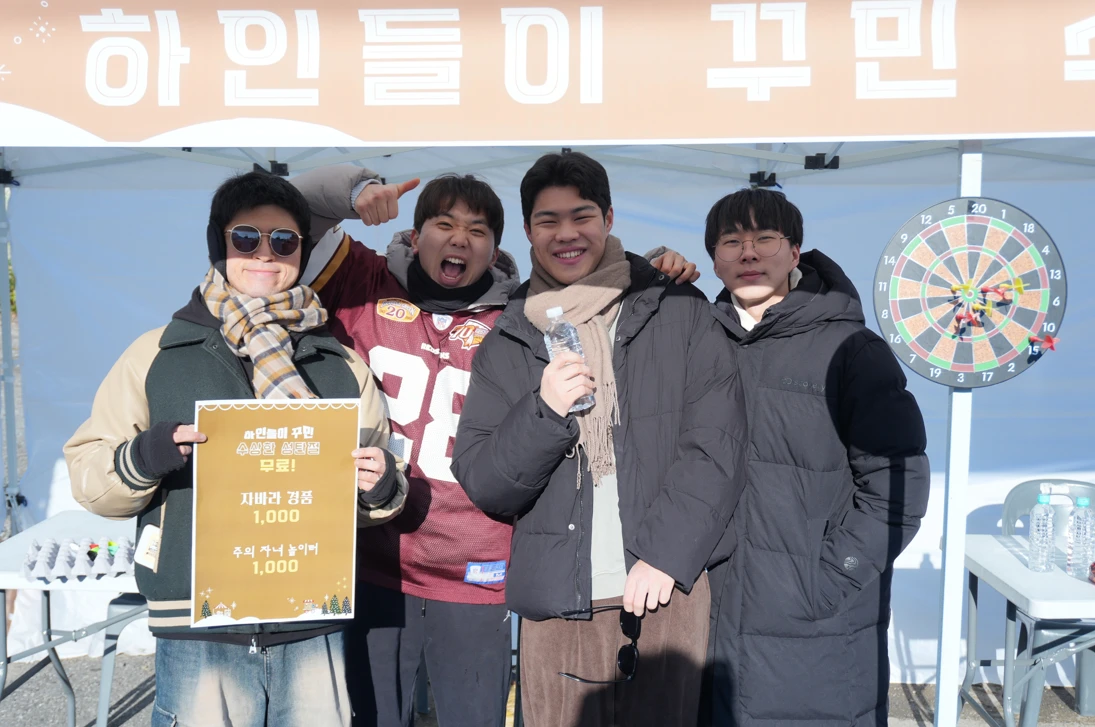
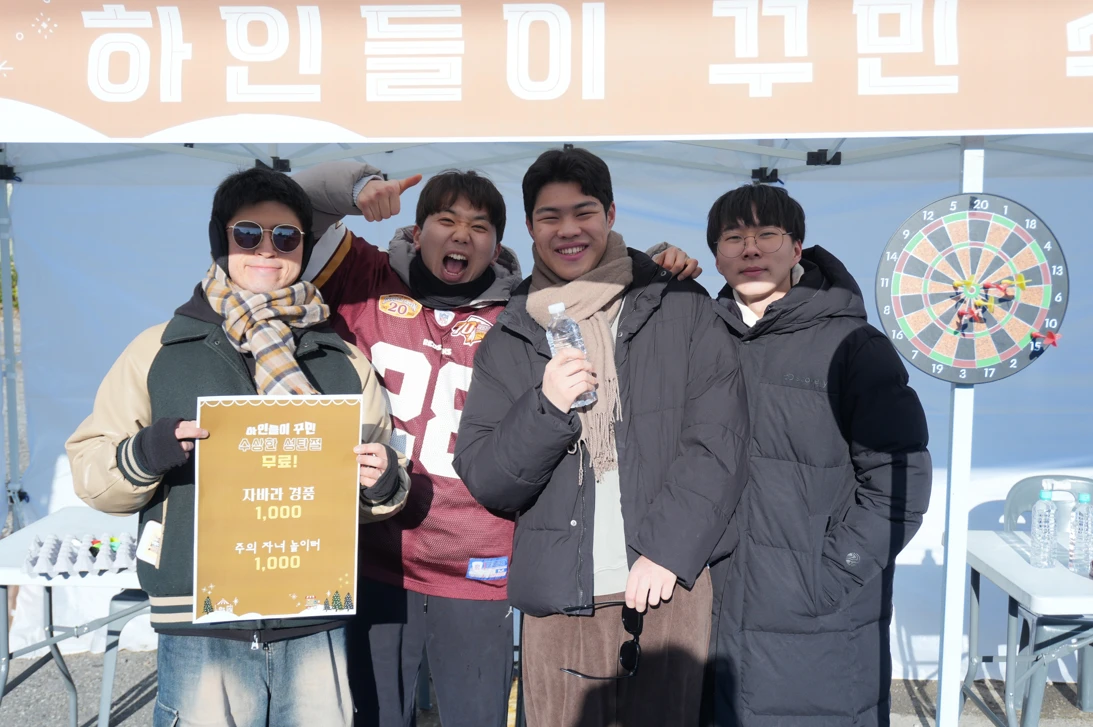
copy: 크리스마스 마켓 '스텝'을 '스탭'으로, 현장스탭 카드 사진 교체

diff --git a/app/admin/christmas/page.tsx b/app/admin/christmas/page.tsx
@@ -13,7 +13,7 @@ const day = (s: string) => new Date(s).toLocaleDateString("ko-KR", { month: "num
 export default function ChristmasAdmin() {
   const [password, setPassword] = useState<string | null>(null);
   const [rows, setRows] = useState<Row[]>([]);
-  const [role, setRole] = useState(""); // 스텝 종류로 거르기. "" 는 전체
+  const [role, setRole] = useState(""); // 스탭 종류로 거르기. "" 는 전체
 
   const load = async (pw: string) => {
     const r = await adminApi(pw, { action: "christmas" });
@@ -60,7 +60,7 @@ export default function ChristmasAdmin() {
     return (
       <div className="min-h-screen bg-gray-50 flex items-center justify-center p-4">
         <form onSubmit={login} className="bg-white p-8 rounded-[20px] shadow-card-lg w-full max-w-sm space-y-4">
-          <h1 className="text-2xl font-bold text-center mb-2">크리스마스 마켓 스텝</h1>
+          <h1 className="text-2xl font-bold text-center mb-2">크리스마스 마켓 스탭</h1>
           <input name="password" type="password" placeholder="비밀번호" required className="w-full border-2 border-gray-200 rounded-xl p-3 outline-none focus:border-brand" />
           <button className="w-full bg-brand text-white font-bold py-3 rounded-xl hover:bg-brand-dark transition">로그인</button>
         </form>
@@ -72,13 +72,13 @@ export default function ChristmasAdmin() {
       <header className="bg-white border-b border-gray-200 px-4 md:px-8 py-3 sticky top-0 z-10">
         <div className="max-w-5xl mx-auto flex items-center gap-1">
           <Link href="/admin" aria-label="관리자" className="p-1 text-gray-500"><ChevronLeft size={22} /></Link>
-          <h1 className="text-lg md:text-xl font-bold">크리스마스 마켓 스텝 <span className="text-gray-500">{rows.length}명</span></h1>
+          <h1 className="text-lg md:text-xl font-bold">크리스마스 마켓 스탭 <span className="text-gray-500">{rows.length}명</span></h1>
           <button onClick={copyLink} className={`${btn} ml-auto`}><Link2 size={16} /> 신청 링크</button>
         </div>
       </header>
 
       <main className="max-w-5xl mx-auto p-4 md:p-8 space-y-4">
-        {/* 스텝별 인원. 누르면 그 스텝만 */}
+        {/* 스탭별 인원. 누르면 그 스탭만 */}
         <div className="flex flex-wrap gap-2">
           {[{ name: "" }, ...info.roles].map((r) => {
             const n = r.name ? rows.filter((x) => x.role === r.name).length : rows.length;
@@ -97,7 +97,7 @@ export default function ChristmasAdmin() {
         <div className="bg-white rounded-2xl shadow-card overflow-x-auto">
           <table className="w-full min-w-[640px] text-sm">
             <thead className="bg-gray-50 text-[13px] text-gray-500">
-              <tr>{["이름", "연락처", "셀", "스텝", "남기실 말", "신청일", ""].map((h) => <th key={h} className="px-3 py-2.5 text-left font-semibold">{h}</th>)}</tr>
+              <tr>{["이름", "연락처", "셀", "스탭", "남기실 말", "신청일", ""].map((h) => <th key={h} className="px-3 py-2.5 text-left font-semibold">{h}</th>)}</tr>
             </thead>
             <tbody className="divide-y divide-gray-100">
               {shown.map((r) => (

diff --git a/app/christmas/info.ts b/app/christmas/info.ts
@@ -1,9 +1,9 @@
-// 크리스마스 마켓 스텝 모집 페이지(/christmas)의 문구·일정·스텝 종류는 전부 여기서만 고칩니다.
+// 크리스마스 마켓 스탭 모집 페이지(/christmas)의 문구·일정·스탭 종류는 전부 여기서만 고칩니다.
 // 마감일을 바꾸면 supabase/christmas.sql 의 날짜도 같이 바꿔 주세요.
 export const info = {
-  title: "크리스마스 마켓 스텝 모집",
-  shareDescription: "12/25(금) 수원하나교회 교육관 주차장. 크리스마스 마켓을 함께 만들 현장스텝·코스튬 스텝을 모집합니다",
-  headline: "크리스마스 마켓\n스텝 모집",
+  title: "크리스마스 마켓 스탭 모집",
+  shareDescription: "12/25(금) 수원하나교회 교육관 주차장. 크리스마스 마켓을 함께 만들 현장스탭·코스튬 스탭을 모집합니다",
+  headline: "크리스마스 마켓\n스탭 모집",
   lead: "성탄의 기쁨을 이웃과 나누는 하루, 섬김이들을 모집합니다!",
 
   formDeadline: "2026-12-13", // 이 날짜까지 신청 받음 (한국 시간)
@@ -14,17 +14,18 @@ export const info = {
     { label: "장소", value: "수원하나교회 교육관 주차장\n경기도 용인시 기흥구 새그내로53번길 30" },
   ],
 
-  // 스텝 종류. name 은 명단에 그대로 저장됩니다 (신청이 들어온 뒤에는 이름을 바꾸지 마세요)
+  // 스탭 종류. name 은 명단에 그대로 저장됩니다 (신청이 들어온 뒤에는 이름을 바꾸지 마세요)
   // image 는 public/christmas/ 의 파일 이름
   roles: [
     {
-      name: "현장스텝",
+      name: "현장스탭",
       desc: "식당 청소, 안내, 줄 세우기, 쓰레기 관리, 설거지, 준비, 음식 부스 도움 등 마켓 곳곳을 맡아요.",
-      image: "craft-booth.webp",
+      image: "game-booth.webp",
     },
     {
-      name: "코스튬 스텝",
-      desc: "성탄 이야기 속 인물 옷을 입고 마켓 곳곳에서 손님을 맞아요.",      image: "costume.webp",
+      name: "코스튬 스탭",
+      desc: "성탄 이야기 속 인물 옷을 입고 마켓 곳곳에서 손님을 맞아요.",
+      image: "costume.webp",
     },
   ],
 
@@ -32,7 +33,7 @@ export const info = {
   photos: [
     { src: "kids-game.webp", alt: "병뚜껑 컬링을 하는 아이들" },
     { src: "food-stall.webp", alt: "디저트 부스에서 계산하는 모습" },
-    { src: "game-booth.webp", alt: "게임 부스 스텝들" },
+    { src: "craft-booth.webp", alt: "크리스마스 키트 부스" },
     { src: "skewers.webp", alt: "숯불에 굽는 꼬치" },
     { src: "cup-stack.webp", alt: "컵 쌓기를 하는 아이" },
     { src: "kid-snack.webp", alt: "간식을 먹는 아이" },

diff --git a/app/christmas/page.tsx b/app/christmas/page.tsx
@@ -8,8 +8,8 @@ import { Check } from "lucide-react";
 import { info } from "./info";
 import { Photos } from "./Photos";
 
-// 크리스마스 마켓 스텝 모집. 작년 전단지 톤(성탄 빨강 + 크림 + 초록 이름표)을 그대로 씁니다.
-// 스텝 카드가 곧 신청서 체크박스입니다. 문구·사진은 ./info.ts, 명단은 /admin/christmas
+// 크리스마스 마켓 스탭 모집. 작년 전단지 톤(성탄 빨강 + 크림 + 초록 이름표)을 그대로 씁니다.
+// 스탭 카드가 곧 신청서 체크박스입니다. 문구·사진은 ./info.ts, 명단은 /admin/christmas
 const focus = "focus-visible:outline-3 focus-visible:outline-offset-2 focus-visible:outline-[#a3162a]";
 const field = "w-full border-2 border-[#3a1a14]/15 rounded-xl px-4 py-3.5 text-[17px] bg-white outline-none focus:border-[#a3162a] transition placeholder:text-[#3a1a14]/45";
 const pill = "inline-block rounded-full bg-[#2f5a34] px-3 py-0.5 text-[15px] font-bold text-[#fbefe0]";
@@ -32,7 +32,7 @@ export default function ChristmasPage() {
       role: String(f.get("role") ?? ""),
       memo: String(f.get("memo") ?? "").trim(),
     };
-    if (!row.role) return setError("현장스텝·코스튬 스텝 중 하나를 골라 주세요.");
+    if (!row.role) return setError("현장스탭·코스튬 스탭 중 하나를 골라 주세요.");
     setError("");
     setIsLoading(true);
     const { error } = await supabase.from("christmas_signups").insert(row);
@@ -100,7 +100,7 @@ export default function ChristmasPage() {
             ) : (
               <form onSubmit={submit} className="space-y-6">
                 <fieldset>
-                  <legend className="px-1 text-[22px] font-extrabold tracking-tight">스텝모집!</legend>
+                  <legend className="px-1 text-[22px] font-extrabold tracking-tight">스탭모집!</legend>
                   <p className="px-1 mt-1 text-[16px] font-semibold text-[#3a1a14]/70">하나만 골라 주세요.</p>
                   <div className="mt-3 space-y-3">
                     {info.roles.map((r) => (

diff --git a/app/admin/page.tsx b/app/admin/page.tsx
@@ -149,7 +149,7 @@ export default function Admin() {
           <div className="flex flex-wrap items-center gap-1">
             <Link href="/admin/goods" className={btn}><ShoppingBag size={16} /> 굿즈 주문</Link>
             <Link href="/admin/shuttle" className={btn}><Bus size={16} /> 셔틀 명단</Link>
-            <Link href="/admin/christmas" className={btn}><Gift size={16} /> 크리스마스 마켓 스텝</Link>
+            <Link href="/admin/christmas" className={btn}><Gift size={16} /> 크리스마스 마켓 스탭</Link>
             <Link href="/admin/settings" className={btn}><Plus size={16} /> 새 설문</Link>
             {form && (
               <>

diff --git a/app/api/admin/route.ts b/app/api/admin/route.ts
@@ -178,7 +178,7 @@ export async function POST(request: Request) {
       return error ? fail("ERROR") : NextResponse.json({ ok: true });
     }
 
-    // 크리스마스 마켓 스텝 (/admin/christmas)
+    // 크리스마스 마켓 스탭 (/admin/christmas)
     case "christmas": {
       const { data } = await db.from("christmas_signups").select("*").order("created_at");
       return NextResponse.json({ rows: data ?? [] });

diff --git a/app/admin/christmas/layout.tsx b/app/admin/christmas/layout.tsx
@@ -1,7 +1,7 @@
 import type { Metadata } from "next";
 
 export const metadata: Metadata = {
-  title: "크리스마스 마켓 스텝 관리",
+  title: "크리스마스 마켓 스탭 관리",
   robots: { index: false, follow: false },
 };
 
